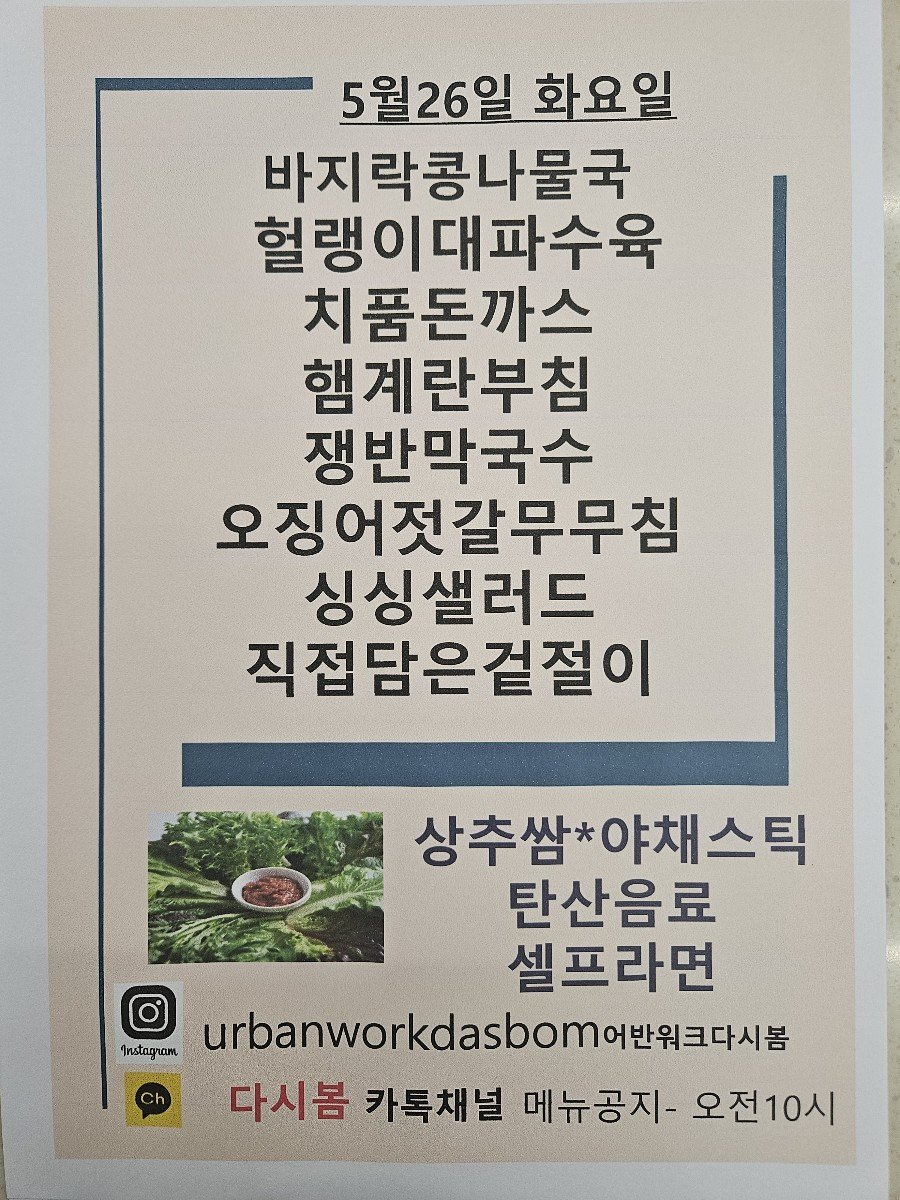
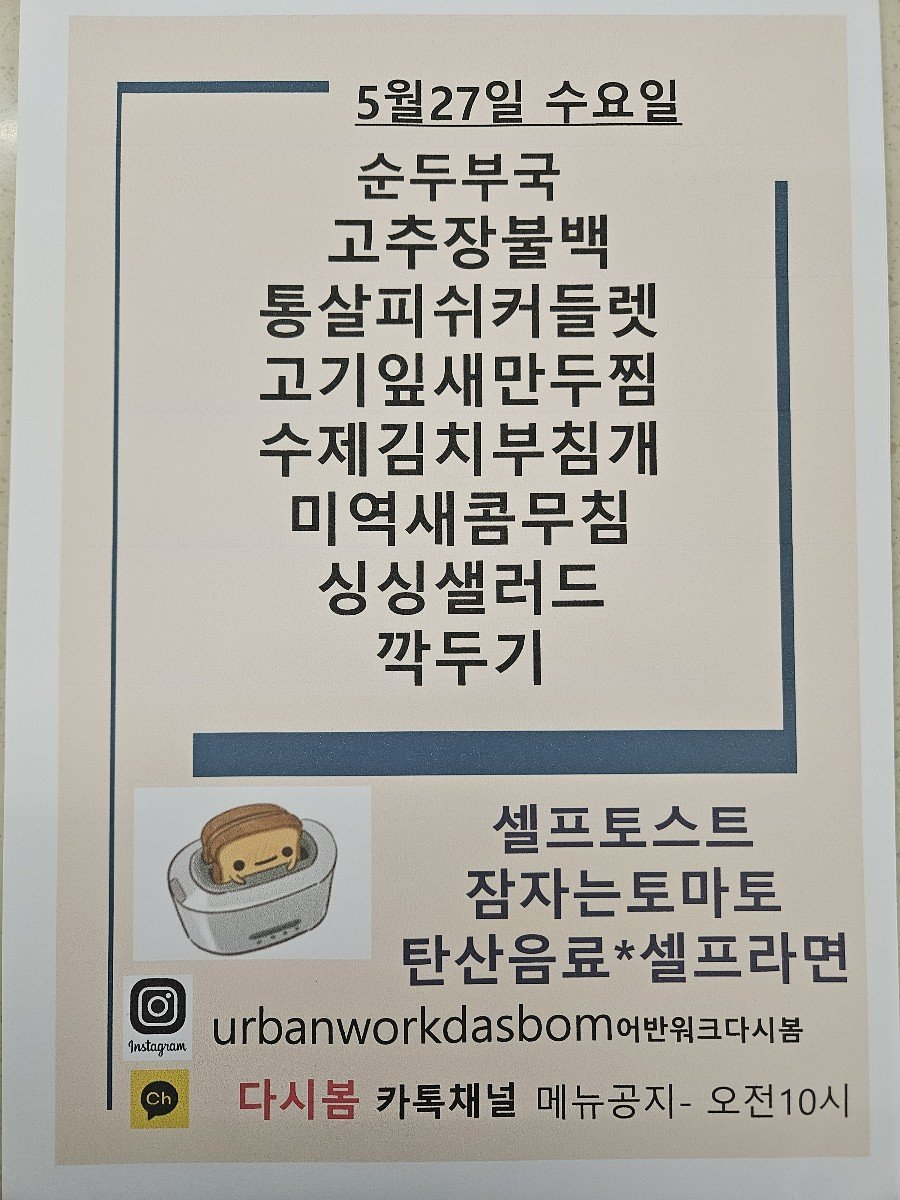
Update menu board assets

diff --git a/menu-today/index.html b/menu-today/index.html
@@ -209,7 +209,7 @@
 
     <section class="meta-bar">
       <div class="meta-card"><div class="meta-label">기준 날짜</div><div class="meta-value">2026년 5월 27일 수요일</div></div>
-      <div class="meta-card"><div class="meta-label">최종 가져온 시간</div><div class="meta-value">2026-05-27 09:48:15</div></div>
+      <div class="meta-card"><div class="meta-label">최종 가져온 시간</div><div class="meta-value">2026-05-27 10:03:29</div></div>
       <div class="meta-card"><div class="meta-label">확인 완료</div><div class="meta-value">10개 식당</div></div>
       <div class="meta-card"><div class="meta-label">준비중</div><div class="meta-value">3개 채널</div></div>
     </section>
@@ -235,7 +235,7 @@
             <div class="sub">가산 어반워크</div>
           </div>
         </div>
-        <div class="menu-inline-image"><img src="./images/dasibom.png" alt="다시 봄 식단 이미지"></div><ul><li>바지락콩나물국</li><li>헐랭이대파수육</li><li>치품돈까스</li><li>햄계란부침</li><li>쟁반막국수</li><li>오징어첫갈무무침</li><li>싱싱샐러드</li><li>직접담은겉절이</li><li>치품돈</li><li>까스</li></ul>
+        <div class="menu-inline-image"><img src="./images/dasibom.png" alt="다시 봄 식단 이미지"></div><ul><li>순두부국</li><li>고주장물백 !</li><li>통살피쉬커들렛</li><li>고기잎새만두찜</li><li>수제김치부침개</li><li>미역새콤무침</li><li>싱싱샐러드</li><li>까두기</li><li>잠자는토마토</li><li>고추장</li></ul>
       </article>
 
       <article class="restaurant-card">
